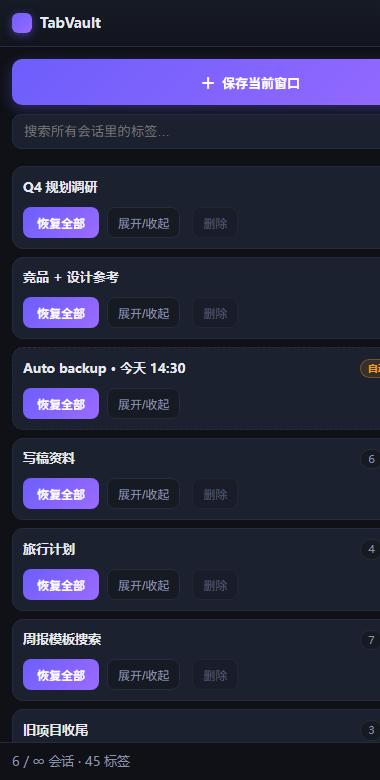
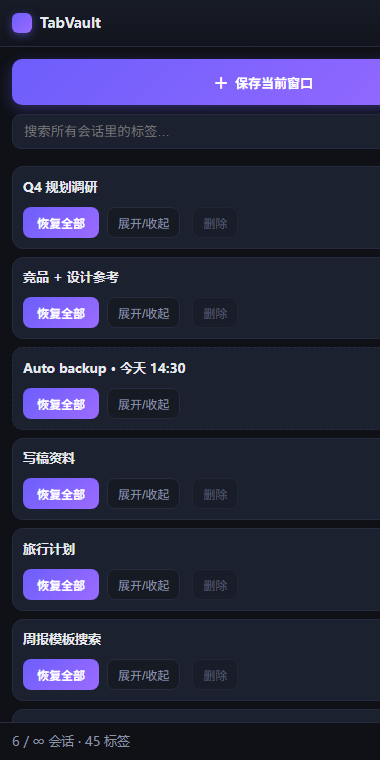
修预览桩 demo 标签数据：URL 拼出 double .com，且去掉残留的 TabTasks 品牌词

Changed region(s): [[0.0289, 0.0, 1.0, 0.9987], [0.2316, 0.9684, 0.3474, 0.9987], [0.0289, 0.9684, 0.0579, 0.9987]]

diff --git a/sidepanel.html b/sidepanel.html
@@ -94,11 +94,19 @@
   // 预览/开发专用：file:// 直接打开本文件时提供 chrome.* 最小桩（?demo=pro|free|paywall）。
   // 真实扩展环境中不生效。
   if (typeof chrome === "undefined" || !chrome.storage) {
+    const DEMO_SITES = [
+      ["Deep Work essay — Longreads", "https://longreads.com/stories/deep-work"],
+      ["Q4 roadmap — Notion", "https://notion.so/wd/q4-roadmap"],
+      ["Inbox — Gmail", "https://mail.google.com/mail/u/0"],
+      ["Pricing benchmarks — Linear", "https://linear.app/pricing"],
+      ["GitHub notifications", "https://github.com/notifications"],
+      ["Figma — Sidebar redesign", "https://figma.com/file/sidebar-redesign"],
+      ["Hacker News front page", "https://news.ycombinator.com/"],
+      ["Issues board — Shortcut", "https://app.shortcut.com/team/board"],
+    ];
     const fakeTabs = (n) => Array.from({ length: n }, (_, i) => ({
-      title: ["Deep Work essay — Longreads", "Q3 roadmap — Notion", "Inbox — Gmail",
-              "TabTasks pricing page", "GitHub notifications", "Figma — Sidebar redesign",
-              "Hacker News front page", "Linear — Issues board"][i % 8] + " " + Math.ceil((i + 1) / 8),
-      url: ["longreads.com","notion.so","mail.google.com","tabtasks.app","github.com","figma.com","news.ycombinator.com","linear.app"][i % 8] + ".com/page-" + i,
+      title: DEMO_SITES[i % 8][0],
+      url: DEMO_SITES[i % 8][1] + "?p=" + i,
     }));
     window.chrome = {
       storage: { local: { get: async () => ({}), set: async () => {}, remove: async () => {} } },
